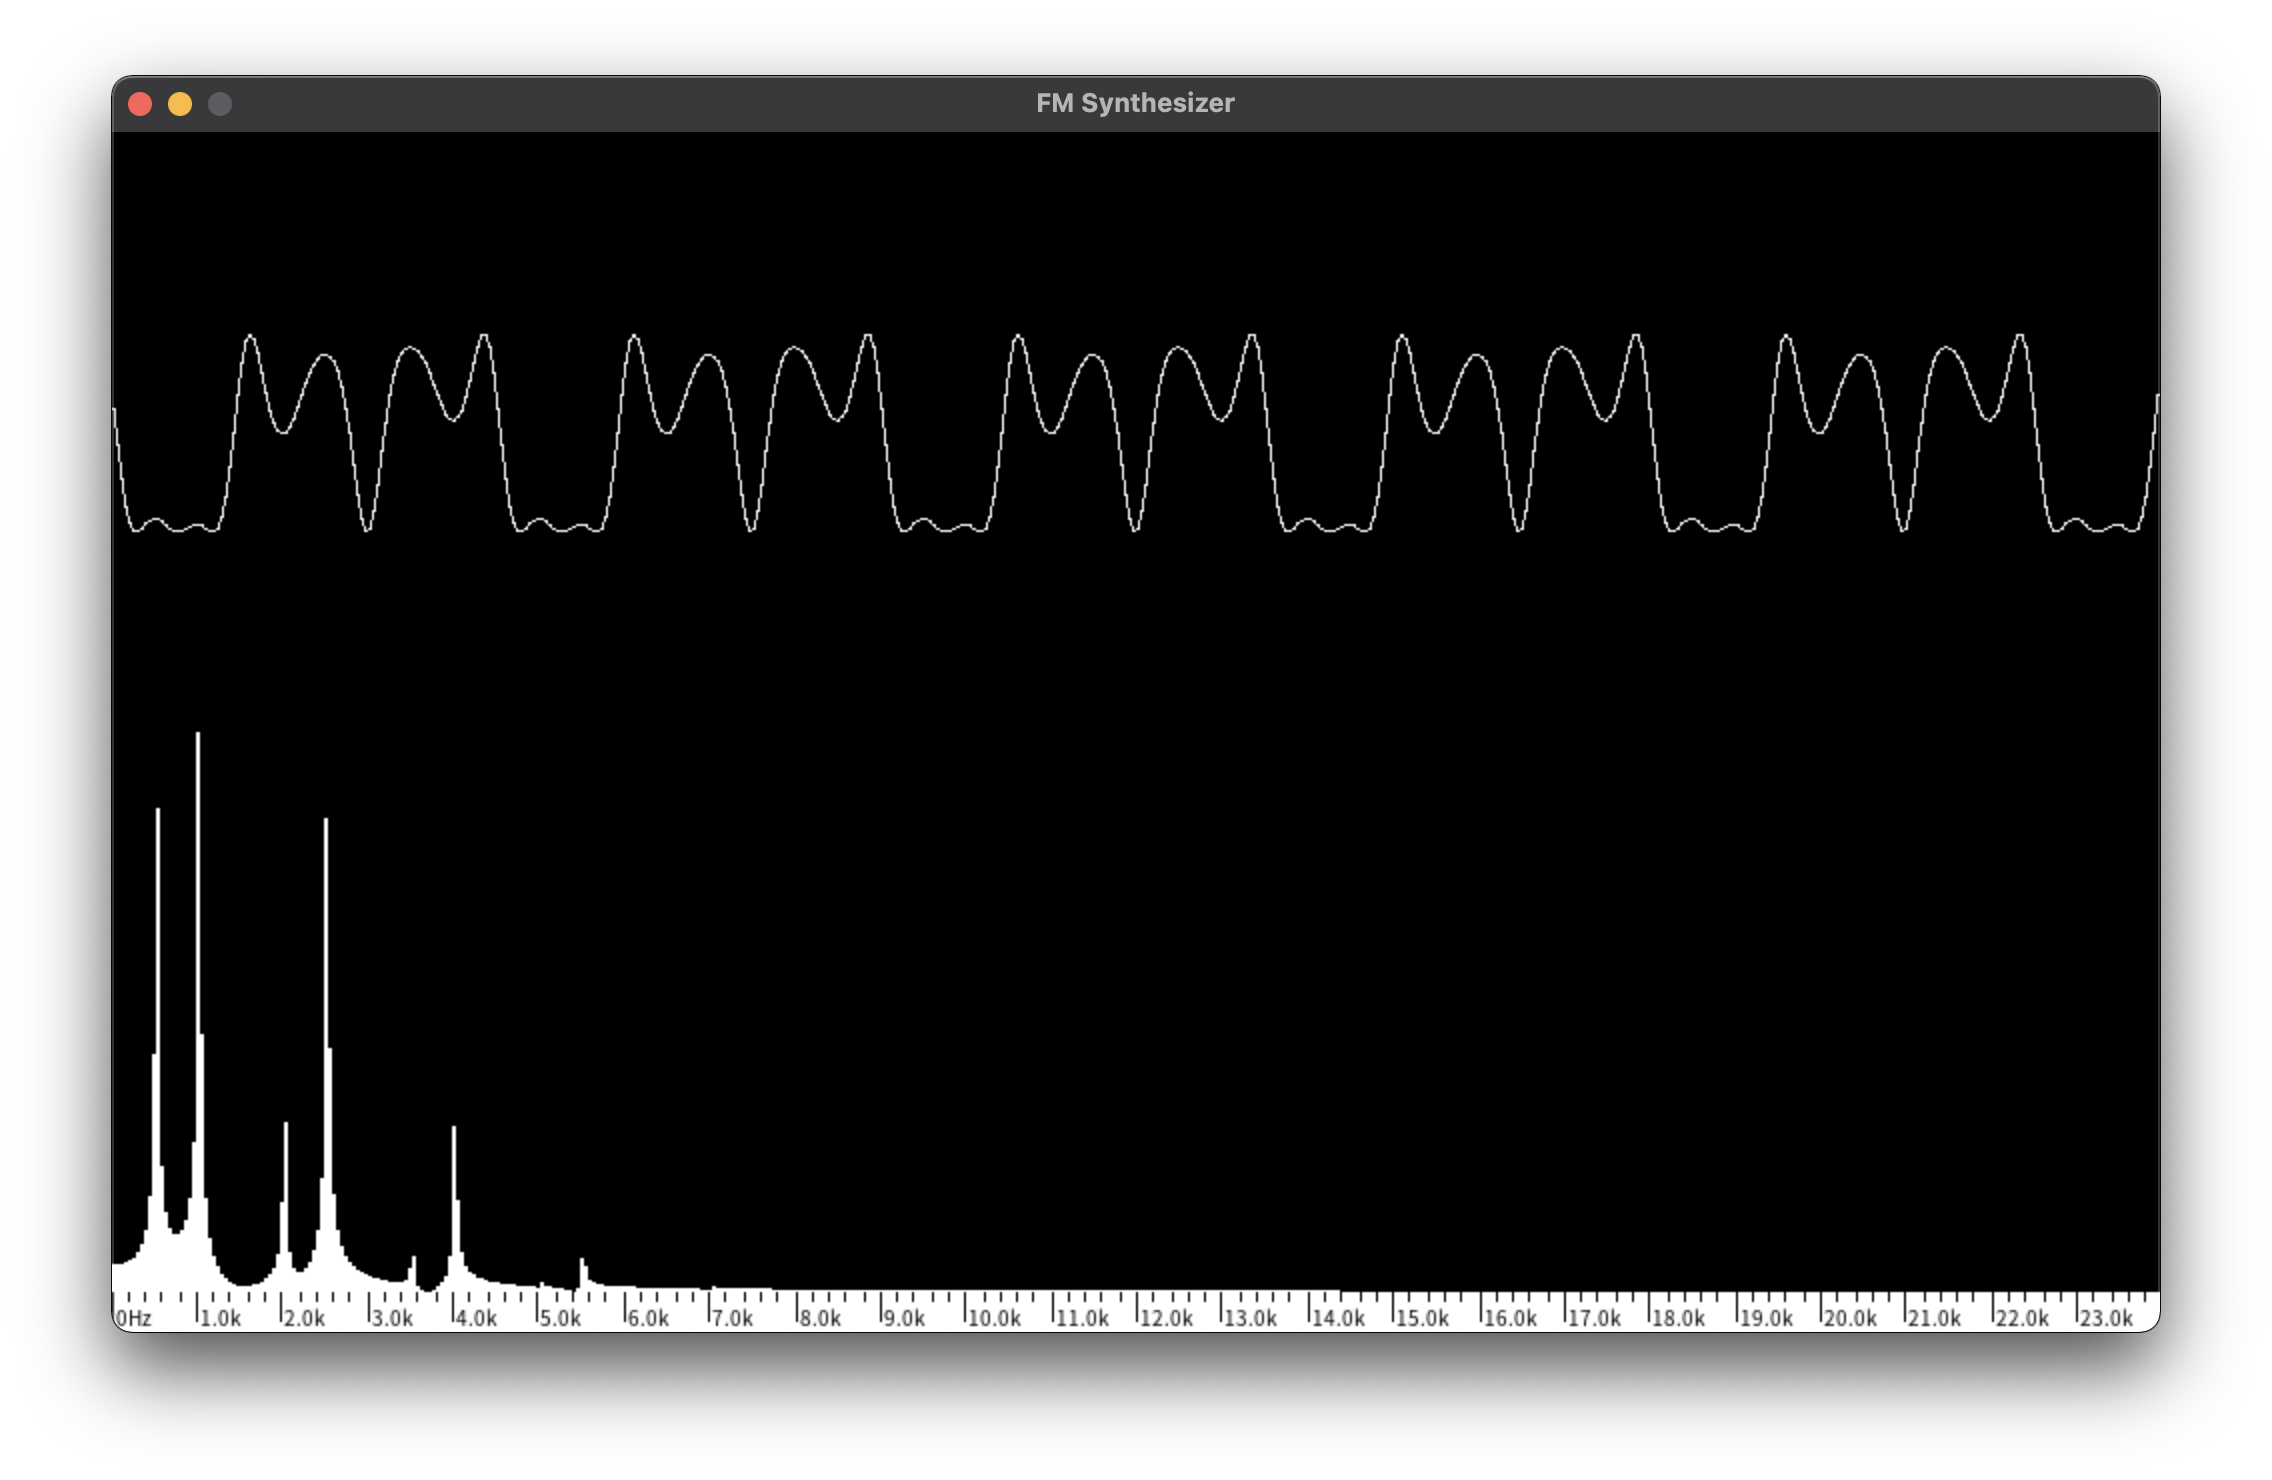
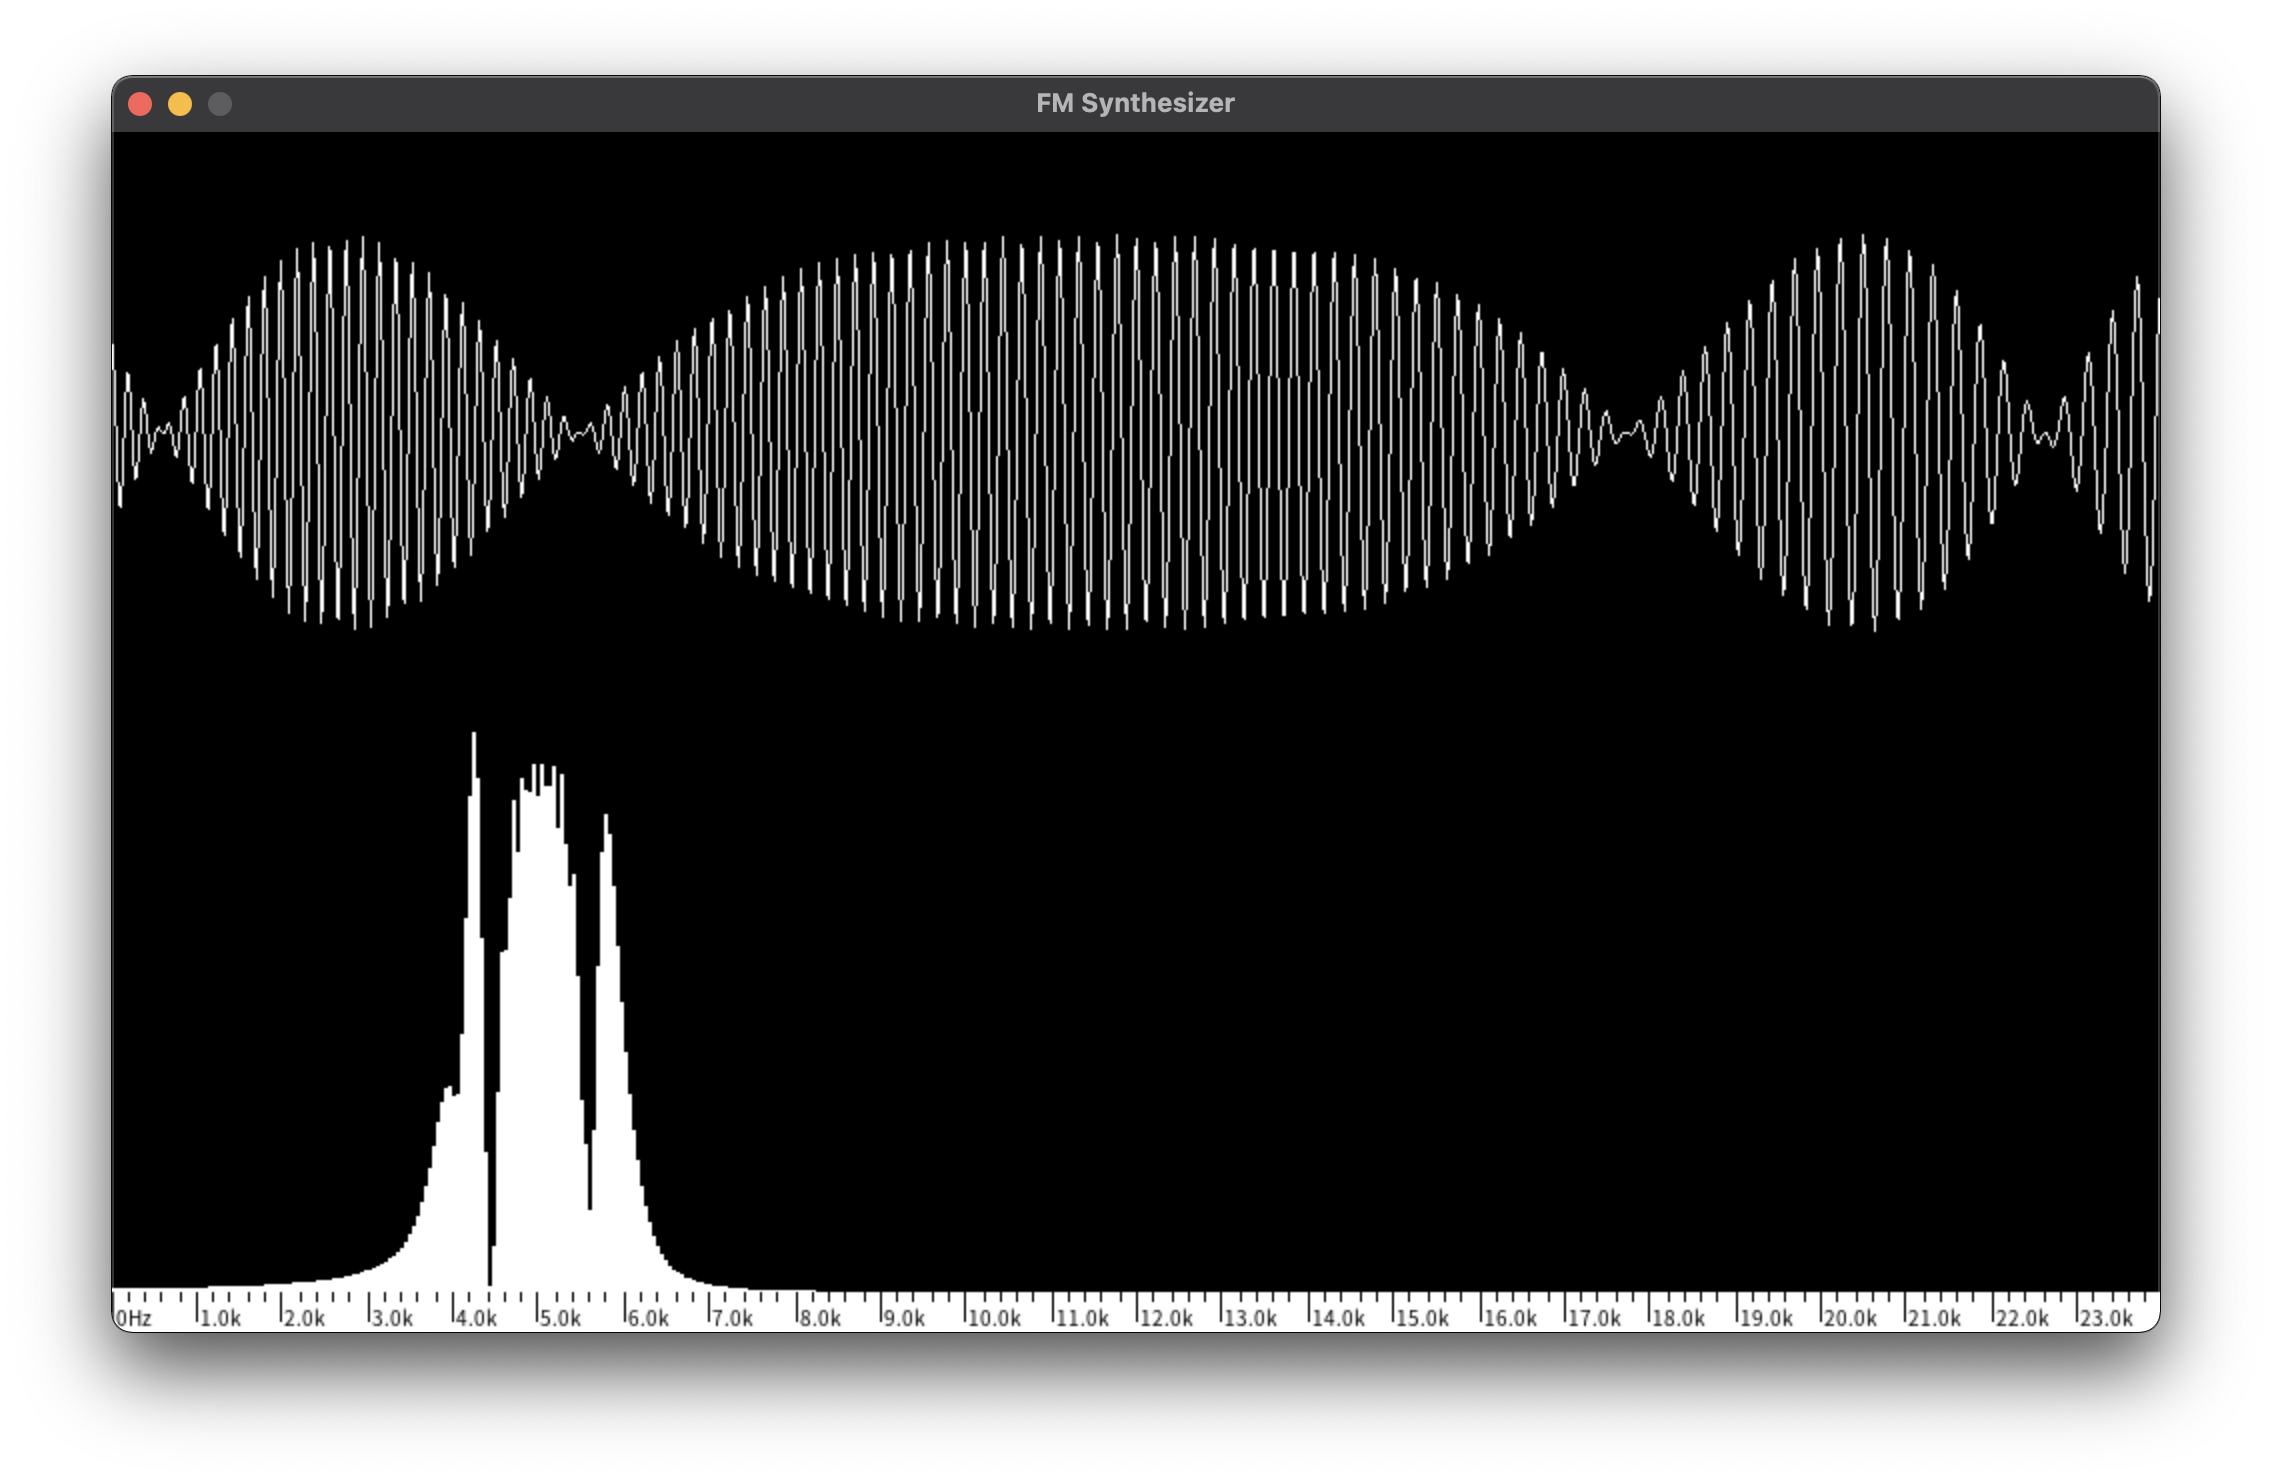
screenshot

Changed region(s): [[0.0312, 0.1554, 0.9688, 0.4351], [0.0312, 0.4973, 0.3125, 0.8703]]

diff --git a/main.c b/main.c
@@ -33,20 +33,27 @@ int main() {
     
     fm_window win = fm_create_window(&player);
     
-    player.synths[0] = fm_new_synth(2);
-    player.synths[0].freq = 1000.0f;
+    player.synths[0] = fm_new_synth(3);
+    player.synths[0].freq = 5000.0f;
     
-    fm_operator op = fm_new_op(0, 1, false, 1.5f);
+    fm_operator op = fm_new_op(0, 1, true, 10.0f);
     op.send[0] = 1;
     op.send_level[0] = 1.0f;
     player.synths[0].ops[0] = op;
 
     fm_operator op2 = fm_new_op(1, 1, false, 1.0f);
     op2.recv[0] = 1;
-    op2.recv_level[0] = 500.0f;
+    op2.recv_level[0] = 1500.0f;
     op2.send[0] = 0;
     op2.send_level[0] = 0.1f;
     player.synths[0].ops[1] = op2;
+
+    fm_operator op3 = fm_new_op(1, 1, false, 1.0f);
+    op3.recv[0] = 1;
+    op3.recv_level[0] = 2000.0f;
+    op3.send[0] = 0;
+    op3.send_level[0] = 0.1f;
+    player.synths[0].ops[2] = op3;
 
     pthread_t player_thread;
     pthread_create(&player_thread, 0, fm_player_loop, &player);

diff --git a/src/window.h b/src/window.h
@@ -21,7 +21,7 @@
 #define FFT_SCALE_MAX (48000 / 2)
 
 #define WAVEFORM_RESOLUTION SCREEN_WIDTH
-#define WAVEFORM_SEGMENT (HOLD_BUFFER_SIZE / 2)
+#define WAVEFORM_SEGMENT (HOLD_BUFFER_SIZE)
 
 static TTF_Font *font;
 
